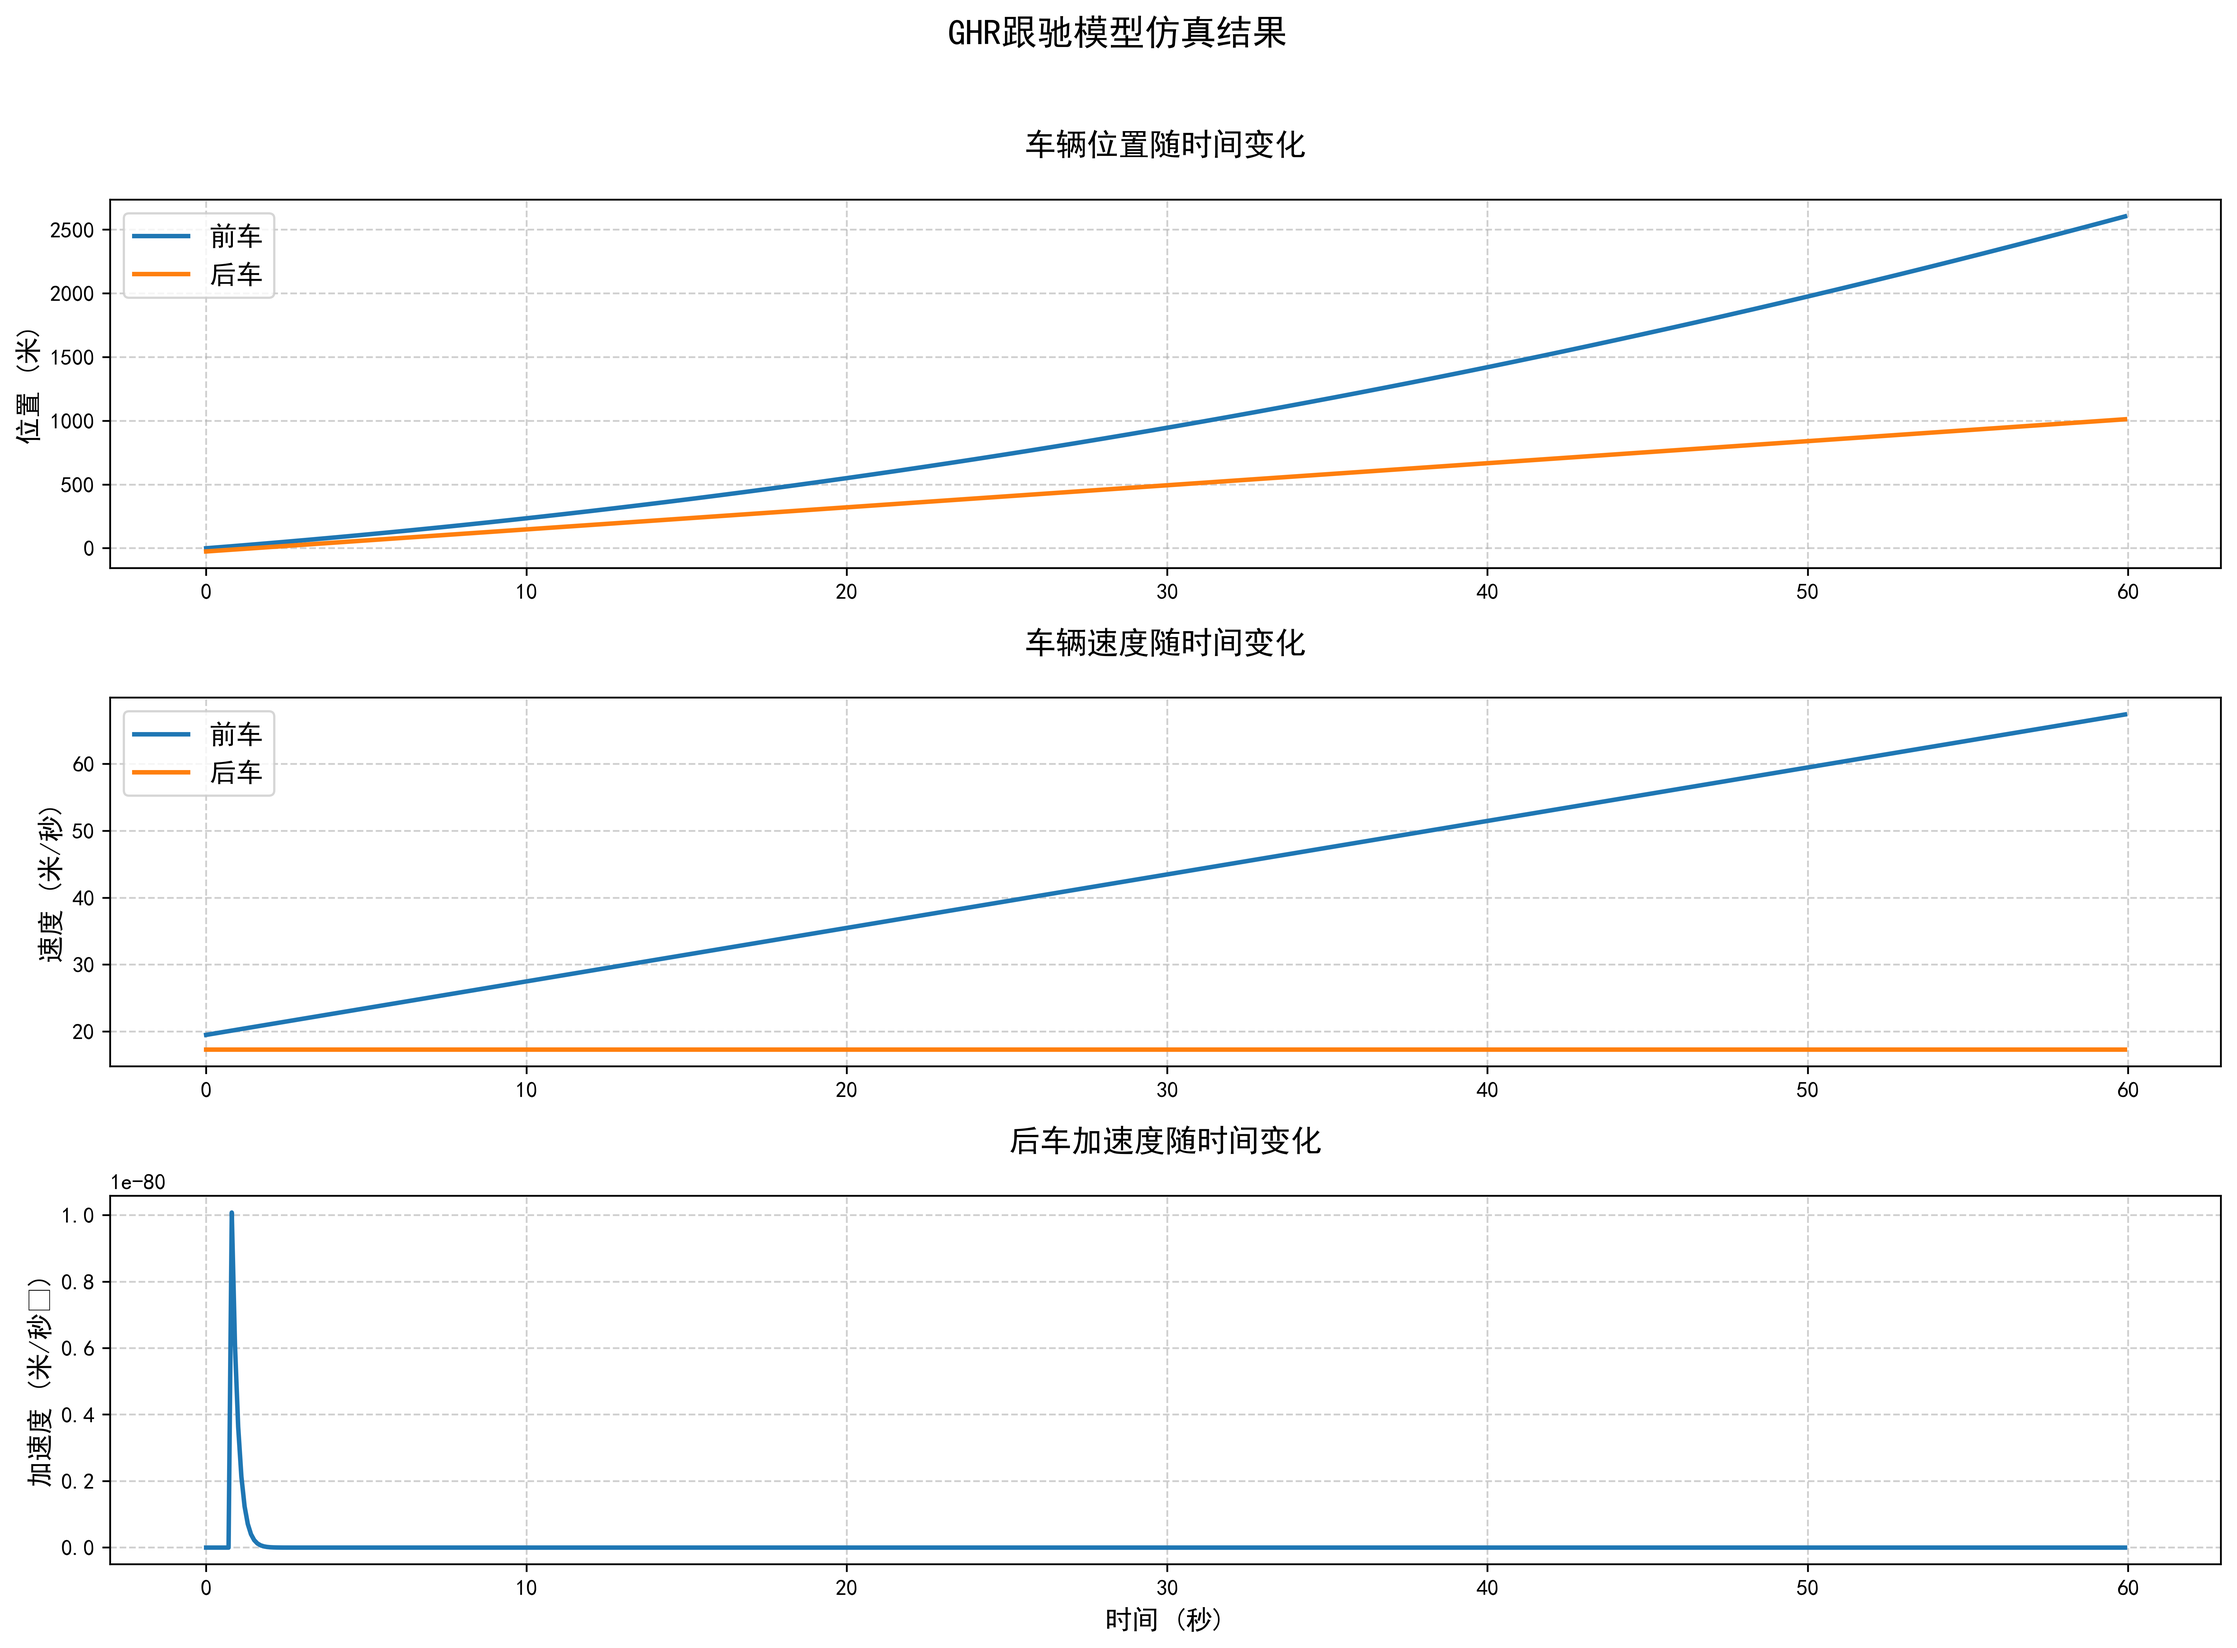
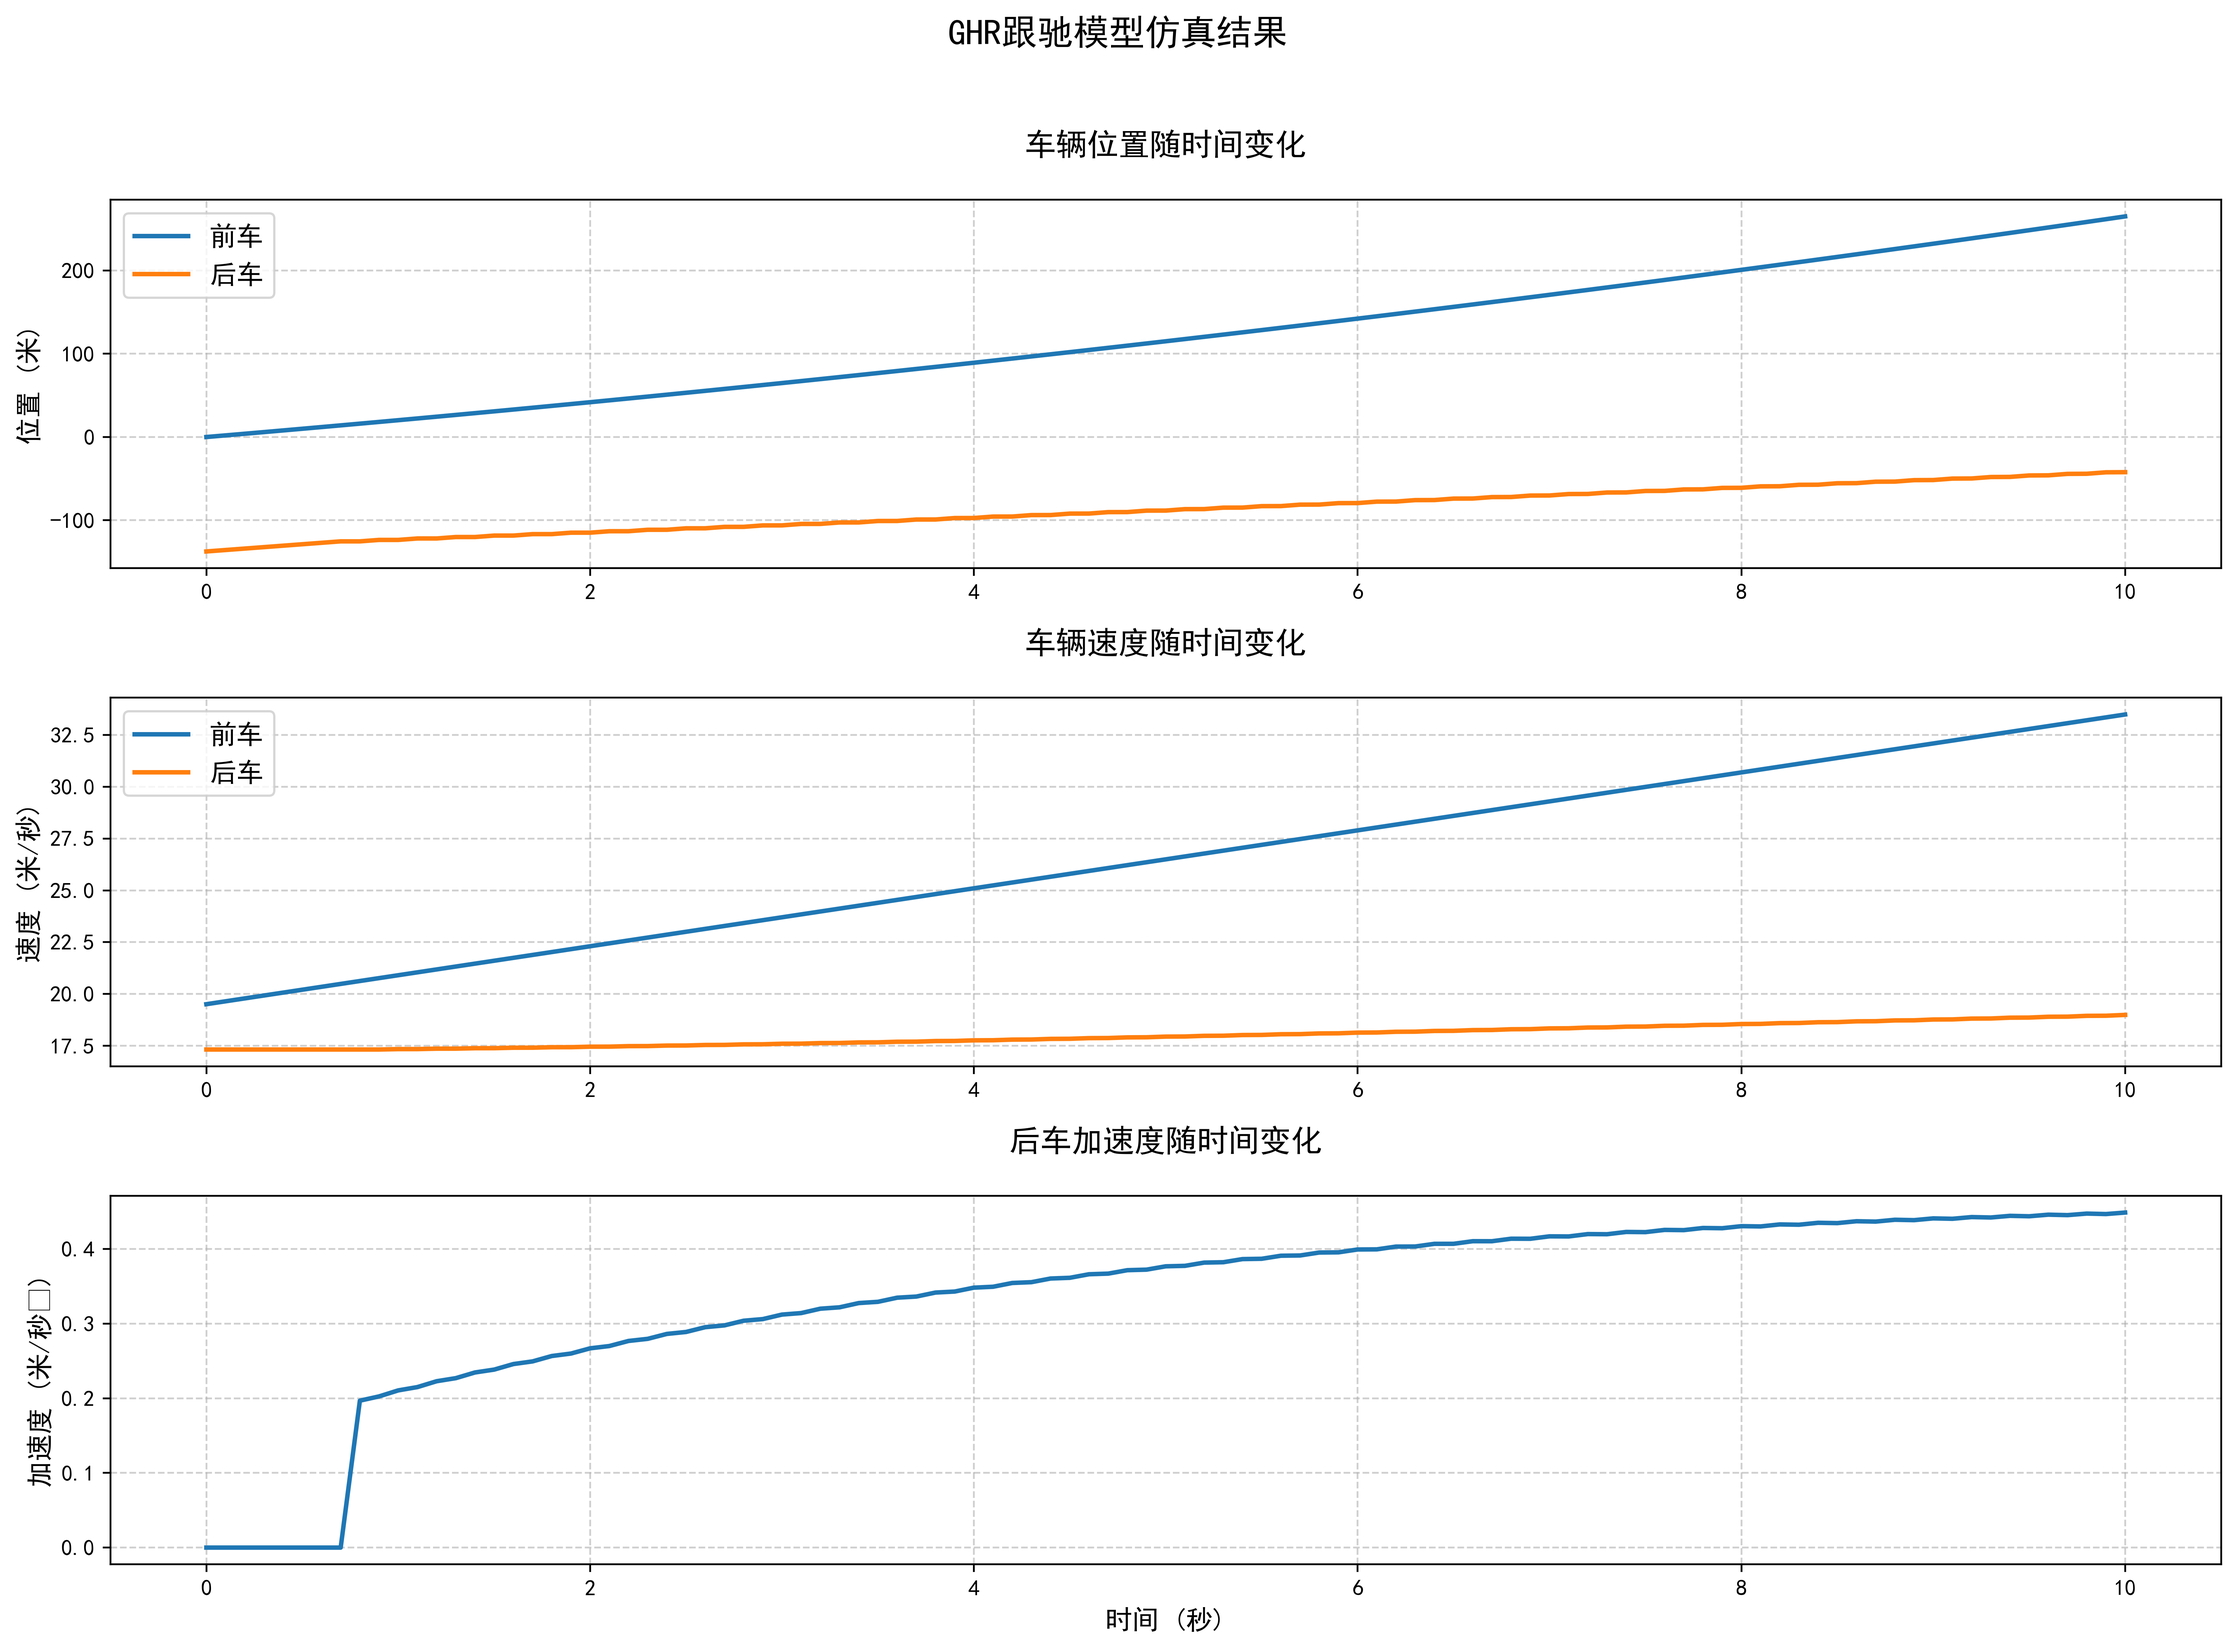
feat: 更新车辆跟驰仿真模型并输出结果到CSV文件
更新了车辆跟驰仿真模型的初始参数和仿真逻辑，增加了仿真结果的详细输出，并将结果保存到CSV文件中以便进一步分析

diff --git a/实验2.py b/实验2.py
@@ -1,7 +1,7 @@
 import numpy as np
 import matplotlib.pyplot as plt
 plt.rcParams['font.sans-serif'] = ['SimHei']  # 指定中文字体为黑体
-plt.rcParams['axes.unicode_minus'] = False     # 解决负号显示问题
+plt.rcParams['axes.unicode_minus'] = False     # 解决符号显示问题
 # GHR跟驰模型参数
 c = 0.5  # 灵敏度参数
 m = 1  # 速度指数
@@ -9,14 +9,14 @@ l = 1  # 间距指数
 
 # 随机生成初始参数
 np.random.seed(42)
-initial_distance = np.random.uniform(10, 50)  # 初始间距(米)
+initial_distance = np.random.uniform(100, 200)  # 初始间距(米)
 front_initial_speed = np.random.uniform(10, 20)  # 前车初始速度(米/秒)
 rear_initial_speed = np.random.uniform(10, 20)  # 后车初始速度(米/秒)
-front_acceleration = np.random.uniform(0.5, 1)  # 前车加速度(米/秒²)
+front_acceleration = np.random.uniform(0.5, 2)  # 前车加速度(米/秒²)
 reaction_time = np.random.uniform(0.5, 2)  # 后车反应时间(秒)
 
 # 仿真参数
-simulation_time = 60  # 总仿真时间(秒)
+simulation_time = 10  # 总仿真时间(秒)
 dt = 0.1  # 时间步长(秒)
 steps = int(simulation_time / dt)
 
@@ -34,36 +34,39 @@ front_speed.append(front_initial_speed)
 rear_speed.append(rear_initial_speed)
 rear_acceleration.append(0)  
 
-# 仿真循环
-for i in range(1, steps):
-    # 前车运动
-    front_speed.append(front_speed[i-1] + front_acceleration * dt)
-    front_position.append(front_position[i-1] + front_speed[i] * dt)
-    
-    # 后车运动 (GHR模型)
-    if i > int(reaction_time / dt):  # 考虑反应时间
-        j = i - int(reaction_time / dt)
-        distance = front_position[j] - rear_position[j]
-        speed_diff = front_speed[j] - rear_speed[j]
-        
-        # GHR模型计算后车加速度
-        rear_acceleration.append(c * (rear_speed[j]**m) * (speed_diff) / (distance**l))
-    else:
-        rear_acceleration.append(0)  # 初始时后车无加速度
-    rear_speed.append(rear_speed[i-1] + rear_acceleration[i] * dt)
-    rear_position.append(rear_position[i-1] + rear_speed[i] * dt)
-    # 确保后车位置不超过前车
-    if rear_position[i] > front_position[i]:
-        print(f"碰撞发生在时间 {i * dt:.2f} 秒，后车位置 {rear_position[i]:.2f} 米")
-        break  # 碰撞发生，停止仿真
-
-# 输出结果
 print("初始参数:")
 print(f"前车初始速度: {front_initial_speed:.2f} 米/秒")
 print(f"后车初始速度: {rear_initial_speed:.2f} 米/秒")
 print(f"初始间距: {initial_distance:.2f} 米")
 print(f"前车加速度: {front_acceleration:.2f} 米/秒²")
 print(f"后车反应时间: {reaction_time:.2f} 秒")
+print(f"时间 0.00 秒，后车位置 {rear_position[-1]:.2f}, 前车位置 {front_position[-1]:.2f}, 后车速度 {rear_speed[-1]:.2f}, 前车速度 {front_speed[-1]:.2f},前车加速度{front_acceleration:.2f},后车加速度 {rear_acceleration[-1]:.2f}")
+
+# 仿真循环
+for i in range(1, steps+1):
+    # 前车运动
+    front_speed.append(front_speed[i-1] + front_acceleration * dt)
+    front_position.append(front_position[i-1] + front_speed[i-1] * dt+0.5*front_acceleration*(dt**2))
+    
+    # 后车运动 (GHR模型)
+    if i > int(reaction_time / dt):  # 考虑反应时间
+        i = i - 1
+        distance = front_position[i] - rear_position[i]
+        speed_diff = front_speed[i] - rear_speed[i]
+        
+        # GHR模型计算后车加速度
+        rear_acceleration.append(c * (rear_speed[i]**m) * (speed_diff) / (distance**l))
+    else:
+        rear_acceleration.append(0)  # 初始时后车无加速度
+    rear_speed.append(rear_speed[i-1] + rear_acceleration[i-1] * dt)
+    rear_position.append(rear_position[i-1] + rear_speed[i-1] * dt+0.5*rear_acceleration[i-1]*(dt**2))
+    # 确保后车位置不超过前车
+    if rear_position[i] > front_position[i]:
+        print(f"碰撞发生在时间 {i * dt:.2f} 秒，后车位置 {rear_position[i]:.2f} 米")
+        break  # 碰撞发生，停止仿真
+    print(f"时间 {i * dt:.2f} 秒，后车位置 {rear_position[i]:.2f}, 前车位置 {front_position[i]:.2f}, 后车速度 {rear_speed[i]:.2f}, 前车速度 {front_speed[i]:.2f},前车加速度{front_acceleration:.2f},后车加速度 {rear_acceleration[i]:.2f}")
+
+# 输出结果
 print(f"最后时刻后车加速度: {rear_acceleration[-1]:.2f} 米/秒²")
 print(f"最后时刻前车位置: {front_position[-1]:.2f} 米")
 print(f"最后时刻后车位置: {rear_position[-1]:.2f} 米")
@@ -108,3 +111,19 @@ plt.yticks(fontsize=10)
 plt.tight_layout()
 plt.savefig('out/2/car_following_simulation.png', dpi=500 , bbox_inches='tight')
 plt.show()
+
+# 保存仿真结果到CSV文件
+import csv
+with open("out/2/simulation_results.csv", mode="w", newline="", encoding="utf-8") as file:
+    writer = csv.writer(file)
+    writer.writerow(["时间 (秒)", "前车位置 (米)", "后车位置 (米)", "前车速度 (米/秒)", "后车速度 (米/秒)", "后车加速度 (米/秒²)","两车间距"])
+    for i in range(len(front_position)):
+        writer.writerow([
+            f"{i * dt:.2f}",
+            f"{front_position[i]:.2f}",
+            f"{rear_position[i]:.2f}",
+            f"{front_speed[i]:.2f}",
+            f"{rear_speed[i]:.2f}",
+            f"{rear_acceleration[i]:.2f}" if i < len(rear_acceleration) else "0.00",
+            f"{front_position[i] - rear_position[i]:.2f}"
+        ])
